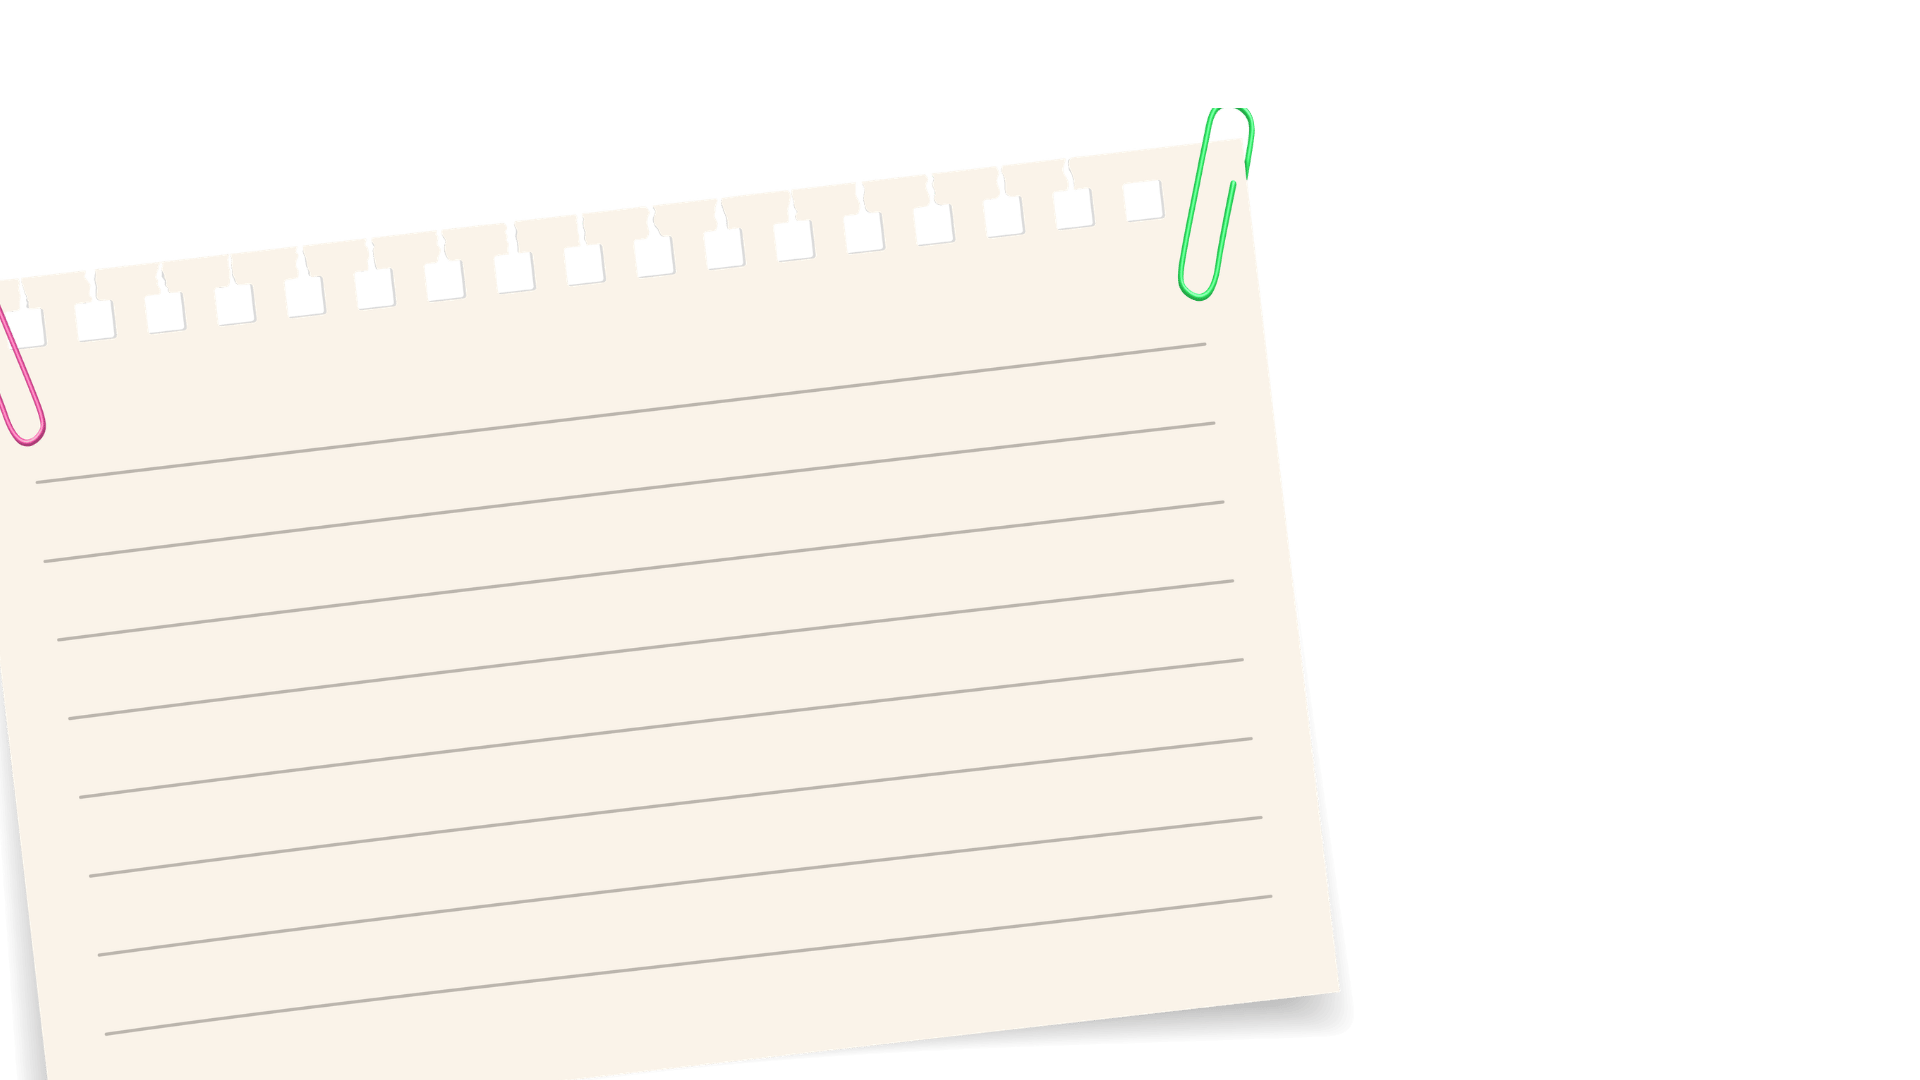
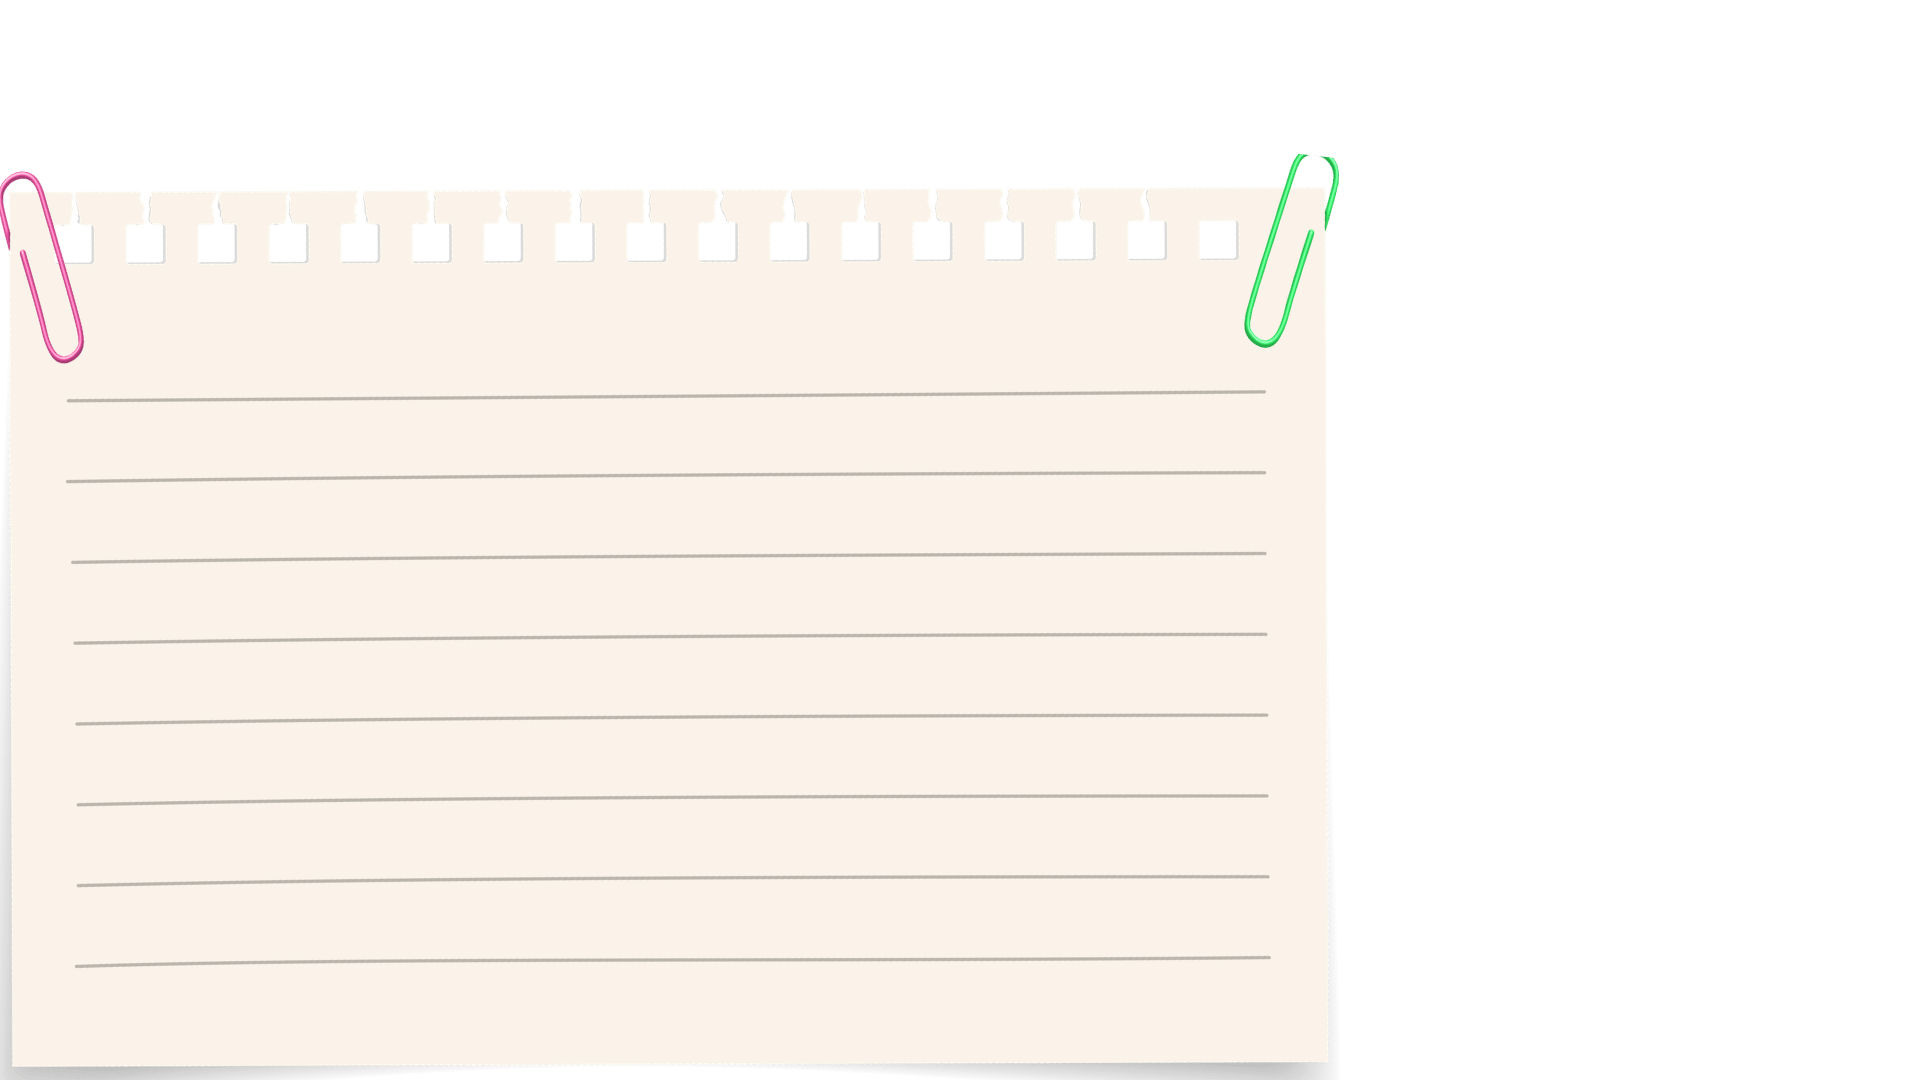
Add new font and thumbnail images for YouTube content
- Added Merriweather font (Merriweather.ttf) for use in video titles and descriptions.
- Included four new thumbnail images (khung nen 1.png, khung nen 2.png, khung nen 3.png, khung nen 4.png) to enhance video presentation.

diff --git a/myvoice/YOUTUBE/dien_tieu_de_thumbnail.py b/myvoice/YOUTUBE/dien_tieu_de_thumbnail.py
@@ -14,6 +14,7 @@ from __future__ import annotations
 import argparse
 from functools import lru_cache
 from itertools import combinations
+import random
 import re
 import sys
 from pathlib import Path
@@ -24,7 +25,11 @@ from PIL import Image, ImageDraw, ImageFilter, ImageFont, ImageOps
 HERE = Path(__file__).resolve().parent
 THUMBNAIL_DIR = HERE / "thumbnail"
 SOURCE_IMAGE = THUMBNAIL_DIR / "tiêu đề.png"
-BACKGROUND_IMAGE = THUMBNAIL_DIR / "khung nên.png"
+# Nền hoa: có NHIỀU mẫu (khung nen 1.png, khung nen 2.png, ...) và mỗi lần tạo
+# thumbnail sẽ chọn NGẪU NHIÊN một mẫu cho mới mẻ. Thêm/bớt nền chỉ cần thêm/xoá
+# file "khung nen *.png" trong thư mục thumbnail, không phải sửa code. Ảnh nền tự
+# co giãn về đúng canvas nên không bắt buộc cùng kích thước.
+BACKGROUND_PATTERN = "khung nen*.png"
 FOREGROUND_FRAME_IMAGE = THUMBNAIL_DIR / "khung trên.png"
 FRAME_IMAGE = THUMBNAIL_DIR / "ảnh.png"              # khung ảnh NGANG (mèo nằm ngang)
 FRAME_IMAGE_VERTICAL = THUMBNAIL_DIR / "anhdoc.png"  # khung ảnh DỌC (mèo dọc/đứng)
@@ -44,18 +49,26 @@ def strip_brand_suffix(title: str) -> str:
     """Bỏ phần '| Mimi audio' ở CUỐI tiêu đề (chỉ dùng cho chữ trên thumbnail)."""
     return _BRAND_SUFFIX_RE.sub("", title or "").rstrip()
 
-# Phần giấy có dòng kẻ trong ảnh mẫu. Góc dương giúp chữ nghiêng theo mặt giấy.
+# Phần giấy có dòng kẻ trong ảnh mẫu (hệ toạ độ 1920×1080). Góc theo mặt giấy;
+# ảnh tiêu đề.png gần như PHẲNG NGANG (dòng kẻ ~ -0.4°) nên góc ≈ 0.
 # Dùng gần hết phần giấy có dòng kẻ để tiêu đề nổi bật như thumbnail YouTube.
-TEXT_BOX = (65, 265, 1235, 885)
-TEXT_ANGLE = 6.7
-TEXT_PADDING = 34
+# Đo lại khi đổi ảnh mẫu (bản 2026-07-09 giấy dời xuống/rộng hơn): vùng dòng kẻ
+# hiện x≈60→1270, y≈395(dòng đầu)→959(dòng cuối), giấy tới x1330/y1066.
+TEXT_BOX = (58, 366, 1258, 974)
+TEXT_ANGLE = 0.0
+TEXT_PADDING = 10
 
-# Bảng màu tiêu đề: chữ tô gradient đỏ (sáng trên → sậm dưới) cho có chiều sâu,
-# bọc viền trắng dày và một rim tối rất mỏng ngoài cùng để tách hẳn khỏi nền giấy.
-TITLE_COLOR_TOP = (236, 64, 64)       # đỏ tươi phía trên
-TITLE_COLOR_BOTTOM = (150, 10, 24)    # đỏ sậm phía dưới
-TITLE_OUTLINE = (255, 255, 255)       # viền trắng
-TITLE_EDGE = (60, 0, 6)               # rim tối ngoài cùng
+# ── Kiểu chữ tiêu đề CỔ ĐIỂN ────────────────────────────────────────────────────
+# Serif dày, lõi MỘT màu đỏ rượu/mận đậm (không đỏ tươi), có VIỀN TRẮNG bao quanh
+# cho nổi bật, và một BÓNG KEM lệch THẲNG xuống dưới nhẹ → chữ nổi, cổ điển.
+TITLE_COLOR = (120, 24, 40)           # đỏ rượu / đỏ mận đậm (lõi chữ)
+TITLE_WHITE = (255, 255, 255)         # viền trắng bao quanh chữ
+TITLE_CREAM = (250, 244, 230)         # màu BÓNG KEM (bản sao lệch xuống)
+
+# Độ lệch/độ dày (hệ 1920px, tự co theo scale_x).
+TITLE_WHITE_STROKE = 4                # bề dày viền trắng quanh chữ
+TITLE_CREAM_OFFSET = 6                # bóng kem lệch THẲNG xuống dưới, nhẹ
+TITLE_CREAM_STROKE = 2                # bề dày bản sao kem (cho bóng lộ ra dưới viền trắng)
 
 # Vùng BÊN TRONG khung ảnh.png trên canvas 1920×1080. Ảnh mèo bị crop theo
 # đúng hình chữ nhật này, sau đó ảnh khung được phủ lên trên để che hoàn toàn phần dư.
@@ -83,7 +96,7 @@ V_PANEL_HEIGHT = 700                # chiều cao panel giấy kem
 V_PANEL_PAD = 50                    # đệm trong panel quanh chữ
 V_LOGO_WIDTH = 360                  # bề ngang logo
 V_BADGE_DIAMETER = 250             # đường kính huy hiệu số tập
-V_TITLE_STROKE_RATIO = 0.06         # độ dày viền trắng theo cỡ chữ (đã giảm 1/2 cho bớt nổi)
+V_TITLE_STROKE_RATIO = 0.032        # viền trắng MỎNG theo cỡ chữ (tách chữ mà không thành mảng nền)
 
 
 for stream in (sys.stdout, sys.stderr):
@@ -91,25 +104,45 @@ for stream in (sys.stdout, sys.stderr):
         stream.reconfigure(encoding="utf-8", errors="replace", line_buffering=True)
 
 
-@lru_cache(maxsize=128)
-def find_font(size: int) -> ImageFont.FreeTypeFont:
-    """Dùng font Windows siêu đậm (ultra-bold), có đầy đủ dấu tiếng Việt.
+FONTS_DIR = HERE / "fonts"
 
-    Ưu tiên Segoe UI Black / Arial Black để chữ nổi khối, dày nét như thumbnail
-    chuyên nghiệp; vẫn lùi về Arial Bold nếu máy thiếu các font trên.
-    """
-    candidates = (
-        Path("C:/Windows/Fonts/seguibl.ttf"),   # Segoe UI Black
-        Path("C:/Windows/Fonts/ariblk.ttf"),    # Arial Black
-        Path("C:/Windows/Fonts/arialbd.ttf"),
-        Path("C:/Windows/Fonts/tahomabd.ttf"),
-        Path("C:/Windows/Fonts/calibrib.ttf"),
-        Path("C:/Windows/Fonts/arial.ttf"),
-    )
-    for font_path in candidates:
-        if font_path.exists():
-            return ImageFont.truetype(str(font_path), size=size)
-    raise FileNotFoundError("Không tìm thấy font Windows hỗ trợ tiếng Việt.")
+# Kiểu chữ tiêu đề: SERIF cổ điển. Mỗi mục là (đường_dẫn, biến_thể) — "biến thể"
+# chỉ dùng cho variable font (Merriweather/Lora) để chọn độ đậm; font Windows
+# thường để None. Thứ tự = mức ưu tiên, dừng ở font đầu tiên có trên máy.
+#   • Merriweather ExtraBold — serif Google Fonts, ĐỦ dấu tiếng Việt; nét đậm vừa
+#     phải: nổi trên thumbnail mà vẫn thoáng, dễ đọc (tải sẵn trong fonts/, offline).
+#     Đổi biến thể sang "Black" nếu muốn dày khối hơn, "Bold" nếu muốn mảnh hơn.
+#   • Lora Bold — serif Google thanh lịch hơn, cũng đủ dấu Việt.
+#   • Times/Cambria/Constantia Bold — serif Windows dựng sẵn, ĐÃ KIỂM TRA đủ dấu
+#     đôi tiếng Việt (ẫ ệ ự ữ ợ...), dùng khi thiếu font bundle.
+# CẢNH BÁO — các font sau THIẾU dấu đôi tiếng Việt (ra ô vuông) nên KHÔNG dùng làm
+# fallback: Georgia, Book Antiqua, và Nexa Rust (bản free). PIL/FreeType không tự
+# ghép dấu tổ hợp nên font phải có sẵn glyph precomposed thì chữ mới hiện đủ dấu.
+_TITLE_FONT_CANDIDATES = (
+    (FONTS_DIR / "Merriweather.ttf", "ExtraBold"),
+    (FONTS_DIR / "Lora.ttf", "Bold"),
+    (Path("C:/Windows/Fonts/timesbd.ttf"), None),    # Times New Roman Bold
+    (Path("C:/Windows/Fonts/cambriab.ttf"), None),   # Cambria Bold
+    (Path("C:/Windows/Fonts/constanb.ttf"), None),   # Constantia Bold
+    (Path("C:/Windows/Fonts/arialbd.ttf"), None),    # cứu cánh cuối: sans đậm
+)
+
+
+@lru_cache(maxsize=256)
+def find_font(size: int) -> ImageFont.FreeTypeFont:
+    """Font tiêu đề serif cổ điển, đủ dấu tiếng Việt (xem _TITLE_FONT_CANDIDATES)."""
+    for font_path, variation in _TITLE_FONT_CANDIDATES:
+        if not font_path.exists():
+            continue
+        font = ImageFont.truetype(str(font_path), size=size)
+        if variation:
+            try:
+                font.set_variation_by_name(variation)
+            except (OSError, ValueError):
+                # File không phải variable font hoặc thiếu biến thể → giữ nét mặc định.
+                pass
+        return font
+    raise FileNotFoundError("Không tìm thấy font serif hỗ trợ tiếng Việt.")
 
 
 def balanced_wrap(
@@ -169,7 +202,9 @@ def fit_text(
         if lines is None:
             continue
         content = "\n".join(lines)
-        spacing = max(6, round(size * 0.15))
+        # Giãn dòng RẤT KHÍT (0.08) để chữ TO nhất, lấp đầy giấy. Chỉ chừa tối thiểu
+        # cho dấu tiếng Việt cao không dính dòng trên. Tăng số này nếu muốn thoáng hơn.
+        spacing = max(6, round(size * 0.08))
         left, top, right, bottom = measure.multiline_textbbox(
             (0, 0), content, font=font, spacing=spacing, stroke_width=3
         )
@@ -213,6 +248,21 @@ def load_canvas_layer(path: Path, size: tuple[int, int]) -> Image.Image:
 
 def natural_sort_key(path: Path) -> list[object]:
     return [int(part) if part.isdigit() else part.casefold() for part in re.split(r"(\d+)", path.name)]
+
+
+def list_background_images(thumbnail_dir: Path = THUMBNAIL_DIR) -> list[Path]:
+    """Liệt kê các ảnh nền hoa (khung nen 1.png, khung nen 2.png, ...) theo thứ tự."""
+    return sorted(thumbnail_dir.glob(BACKGROUND_PATTERN), key=natural_sort_key)
+
+
+def random_background(thumbnail_dir: Path = THUMBNAIL_DIR) -> Path:
+    """Chọn ngẫu nhiên một ảnh nền hoa để mỗi thumbnail trông mới mẻ."""
+    backgrounds = list_background_images(thumbnail_dir)
+    if not backgrounds:
+        raise FileNotFoundError(
+            f"Không tìm thấy ảnh nền '{BACKGROUND_PATTERN}' trong {thumbnail_dir}"
+        )
+    return random.choice(backgrounds)
 
 
 def list_photo_files(photo_dir: Path) -> list[Path]:
@@ -341,28 +391,6 @@ def add_number_to_tag(base: Image.Image, number: str, tag_path: Path) -> Image.I
     return Image.alpha_composite(result, text_layer)
 
 
-def vertical_gradient(
-    size: tuple[int, int],
-    top_color: tuple[int, int, int],
-    bottom_color: tuple[int, int, int],
-    y0: int,
-    y1: int,
-) -> Image.Image:
-    """Tạo lớp gradient dọc; màu chỉ chuyển trong khoảng [y0, y1] của chữ."""
-    width, height = size
-    grad = Image.new("RGBA", size)
-    draw = ImageDraw.Draw(grad)
-    span = max(y1 - y0, 1)
-    for y in range(height):
-        t = min(1.0, max(0.0, (y - y0) / span))
-        color = tuple(
-            round(top_color[index] + (bottom_color[index] - top_color[index]) * t)
-            for index in range(3)
-        )
-        draw.line([(0, y), (width, y)], fill=(*color, 255))
-    return grad
-
-
 def draw_title_text(
     layer: Image.Image,
     content: str,
@@ -371,30 +399,25 @@ def draw_title_text(
     spacing: int,
     scale_x: float,
 ) -> None:
-    """Vẽ tiêu đề: rim tối ngoài cùng → viền trắng dày → lõi chữ tô gradient đỏ."""
+    """Vẽ tiêu đề cổ điển: BÓNG KEM lệch xuống → viền TRẮNG → lõi đỏ rượu đồng nhất."""
     draw = ImageDraw.Draw(layer)
     common = dict(font=font, spacing=spacing, anchor="mm", align="center")
-    white_width = max(3, round(4 * scale_x))
-    edge_width = white_width + max(2, round(3 * scale_x))
+    cx, cy = center
+    down = round(TITLE_CREAM_OFFSET * scale_x)
+    white_w = max(2, round(TITLE_WHITE_STROKE * scale_x))
+    cream_stroke = max(1, round(TITLE_CREAM_STROKE * scale_x))
 
-    # 1) Rim tối hơi loe ra ngoài viền trắng để chữ không bị "chìm" vào nền sáng.
+    # 1) Bóng kem: bản sao màu kem lệch THẲNG xuống, hơi dày hơn cả viền trắng để
+    #    ló ra phía dưới viền (không lệch ngang → không nghiêng).
     draw.multiline_text(
-        center, content, fill=(*TITLE_EDGE, 255),
-        stroke_width=edge_width, stroke_fill=(*TITLE_EDGE, 255), **common,
+        (cx, cy + down), content, fill=(*TITLE_CREAM, 255),
+        stroke_width=white_w + cream_stroke, stroke_fill=(*TITLE_CREAM, 255), **common,
     )
-    # 2) Viền trắng dày bao quanh lõi chữ.
+    # 2) Viền TRẮNG bao quanh + lõi chữ đỏ rượu / mận đậm (MỘT màu đồng nhất).
     draw.multiline_text(
-        center, content, fill=(*TITLE_OUTLINE, 255),
-        stroke_width=white_width, stroke_fill=(*TITLE_OUTLINE, 255), **common,
+        center, content, fill=(*TITLE_COLOR, 255),
+        stroke_width=white_w, stroke_fill=(*TITLE_WHITE, 255), **common,
     )
-    # 3) Lõi chữ: tô gradient đỏ qua mask đúng hình glyph (không kèm viền).
-    bbox = draw.multiline_textbbox(center, content, stroke_width=0, **common)
-    mask = Image.new("L", layer.size, 0)
-    ImageDraw.Draw(mask).multiline_text(center, content, fill=255, stroke_width=0, **common)
-    grad = vertical_gradient(
-        layer.size, TITLE_COLOR_TOP, TITLE_COLOR_BOTTOM, bbox[1], bbox[3]
-    )
-    layer.paste(grad, (0, 0), mask)
 
 
 def _fit_vertical_title(
@@ -432,19 +455,17 @@ def _draw_vertical_title(
     spacing: int,
     stroke: int,
 ) -> None:
-    """Vẽ tiêu đề bản dọc: rim tối ngoài cùng → viền trắng dày → lõi gradient đỏ."""
+    """Vẽ tiêu đề bản dọc: BÓNG KEM lệch xuống → viền TRẮNG → lõi đỏ rượu đồng nhất."""
     draw = ImageDraw.Draw(layer)
     common = dict(font=font, spacing=spacing, anchor="mm", align="center")
-    edge = stroke + max(2, round(stroke * 0.35))
-    draw.multiline_text(center, content, fill=(*TITLE_EDGE, 255),
-                        stroke_width=edge, stroke_fill=(*TITLE_EDGE, 255), **common)
-    draw.multiline_text(center, content, fill=(*TITLE_OUTLINE, 255),
-                        stroke_width=stroke, stroke_fill=(*TITLE_OUTLINE, 255), **common)
-    bbox = draw.multiline_textbbox(center, content, stroke_width=0, **common)
-    mask = Image.new("L", layer.size, 0)
-    ImageDraw.Draw(mask).multiline_text(center, content, fill=255, stroke_width=0, **common)
-    grad = vertical_gradient(layer.size, TITLE_COLOR_TOP, TITLE_COLOR_BOTTOM, bbox[1], bbox[3])
-    layer.paste(grad, (0, 0), mask)
+    cx, cy = center
+    down = max(1, round(stroke * 1.2))   # bóng kem lệch xuống theo cỡ chữ bản dọc
+    # 1) Bóng kem lệch thẳng xuống (bản sao màu kem, dày hơn viền trắng để ló ra dưới).
+    draw.multiline_text((cx, cy + down), content, fill=(*TITLE_CREAM, 255),
+                        stroke_width=round(stroke * 1.5), stroke_fill=(*TITLE_CREAM, 255), **common)
+    # 2) Viền TRẮNG bao quanh + lõi chữ đỏ rượu đồng nhất.
+    draw.multiline_text(center, content, fill=(*TITLE_COLOR, 255),
+                        stroke_width=stroke, stroke_fill=(*TITLE_WHITE, 255), **common)
 
 
 def _add_vertical_episode_badge(base: Image.Image, number: str) -> Image.Image:
@@ -563,12 +584,16 @@ def add_title(
     number: str,
     number_frame_path: Path,
     max_lines: int = 4,
+    background: Path | None = None,
 ) -> Path:
     title = strip_brand_suffix(title)   # bỏ '| Mimi audio' khỏi chữ trên thumbnail
     paper = Image.open(source).convert("RGBA")
     # Thứ tự lớp: nền hoa → tờ giấy/ảnh/nội dung → khung trang trí trên cùng.
-    background = load_canvas_layer(BACKGROUND_IMAGE, paper.size)
-    base = Image.alpha_composite(background, paper)
+    # Không truyền nền cụ thể → chọn NGẪU NHIÊN một mẫu "khung nen *.png".
+    if background is None:
+        background = random_background()
+    background_layer = load_canvas_layer(background, paper.size)
+    base = Image.alpha_composite(background_layer, paper)
     width, height = base.size
 
     # Tỷ lệ này được thiết kế cho ảnh 1920x1080; vẫn co giãn nếu ảnh mẫu thay đổi kích thước.
@@ -584,43 +609,22 @@ def add_title(
 
     font, content, spacing = fit_text(title, box_width, box_height, max_lines)
     text_layer = Image.new("RGBA", (width, height), (0, 0, 0, 0))
-    shadow_layer = Image.new("RGBA", (width, height), (0, 0, 0, 0))
-    shadow_draw = ImageDraw.Draw(shadow_layer)
 
-    # Bóng đen mềm tách chữ khỏi nền giấy, sau đó vẽ chữ đỏ có viền kem.
-    shadow_position = (center[0] + round(8 * scale_x), center[1] + round(9 * scale_y))
-    shadow_draw.multiline_text(
-        shadow_position,
-        content,
-        font=font,
-        fill=(0, 0, 0, 120),
-        spacing=spacing,
-        anchor="mm",
-        align="center",
-        stroke_width=5,
-        stroke_fill=(0, 0, 0, 110),
-    )
-    shadow_layer = shadow_layer.filter(ImageFilter.GaussianBlur(radius=max(3, round(8 * scale_x))))
+    # Chữ cổ điển: bóng KEM lệch thẳng xuống + lõi đỏ rượu (xem draw_title_text).
     draw_title_text(text_layer, content, font, center, spacing, scale_x)
 
-    # Cả bóng và chữ cùng xoay nhẹ để theo góc của tờ giấy trong ảnh mẫu.
-    shadow_layer = shadow_layer.rotate(TEXT_ANGLE, resample=Image.Resampling.BICUBIC, center=center)
+    # Xoay nhẹ theo góc của tờ giấy trong ảnh mẫu (góc ≈ 0 với ảnh phẳng hiện tại).
     text_layer = text_layer.rotate(TEXT_ANGLE, resample=Image.Resampling.BICUBIC, center=center)
-    result = Image.alpha_composite(base, shadow_layer)
-    result = Image.alpha_composite(result, text_layer)
-    # Chọn khung theo HƯỚNG ảnh mèo: ảnh DỌC (cao > rộng) → anhdoc.png; ảnh NGANG
-    # → ảnh.png. Chỉ dùng MỘT khung, không chồng cả hai. Thiếu khung dọc thì lùi
-    # về khung ngang cho an toàn.
-    with Image.open(photo_path) as _p:
-        is_portrait = _p.height > _p.width
-    use_vertical = is_portrait and FRAME_IMAGE_VERTICAL.is_file()
-    if use_vertical:
-        chosen_frame, chosen_box = FRAME_IMAGE_VERTICAL, FRAME_INNER_BOX_VERTICAL
+    result = Image.alpha_composite(base, text_layer)
+    # LUÔN dùng khung ảnh DỌC (anhdoc.png) cho mọi thumbnail — KHÔNG dùng khung
+    # NGANG (ảnh.png) nữa. Ảnh mèo (ngang hay dọc) đều được crop cover vào khung dọc
+    # và bo góc cho đẹp. Chỉ lùi về khung ngang nếu THIẾU file anhdoc.png.
+    if FRAME_IMAGE_VERTICAL.is_file():
+        chosen_frame, chosen_box, round_corners = FRAME_IMAGE_VERTICAL, FRAME_INNER_BOX_VERTICAL, True
     else:
-        chosen_frame, chosen_box = frame_path, FRAME_INNER_BOX
-    # Khung dọc → bo góc ảnh cho đẹp.
+        chosen_frame, chosen_box, round_corners = frame_path, FRAME_INNER_BOX, False
     result = add_photo_to_frame(result, photo_path, chosen_frame, chosen_box,
-                                round_corners=use_vertical)
+                                round_corners=round_corners)
     if number:
         result = add_number_to_tag(result, number, number_frame_path)
     result = Image.alpha_composite(result, load_canvas_layer(FOREGROUND_FRAME_IMAGE, result.size))
@@ -646,6 +650,8 @@ def parse_args() -> argparse.Namespace:
     parser.add_argument("--number", default=DEFAULT_NUMBER, help="Số hiển thị trên thẻ (mặc định: 01).")
     parser.add_argument("--number-frame", type=Path, default=NUMBER_FRAME_IMAGE, help="Ảnh PNG thẻ số.")
     parser.add_argument("--max-lines", type=int, default=4, help="Số dòng tối đa (mặc định: 4).")
+    parser.add_argument("--background", type=Path,
+                        help="Ảnh nền hoa cụ thể. Bỏ trống để chọn ngẫu nhiên trong các 'khung nen *.png'.")
     return parser.parse_args()
 
 
@@ -659,6 +665,8 @@ def main() -> int:
         raise ValueError("--max-lines phải lớn hơn hoặc bằng 1.")
     photo = args.photo.expanduser().resolve() if args.photo else select_default_photo(args.photo_dir.expanduser())
     output_path = args.output.expanduser() if args.output else next_thumbnail_path()
+    # Chọn nền tại đây để in ra đúng mẫu đã dùng (không truyền → add_title tự random).
+    background = args.background.expanduser().resolve() if args.background else random_background()
     output = add_title(
         source,
         output_path,
@@ -668,8 +676,10 @@ def main() -> int:
         args.number.strip(),
         args.number_frame.expanduser().resolve(),
         args.max_lines,
+        background,
     )
     print(f"Ảnh trong khung: {photo}")
+    print(f"Nền hoa: {background.name}")
     print(f"Số trên thẻ: {args.number.strip() or '(không hiển thị)'}")
     print(f"Đã tạo thumbnail: {output}")
     return 0